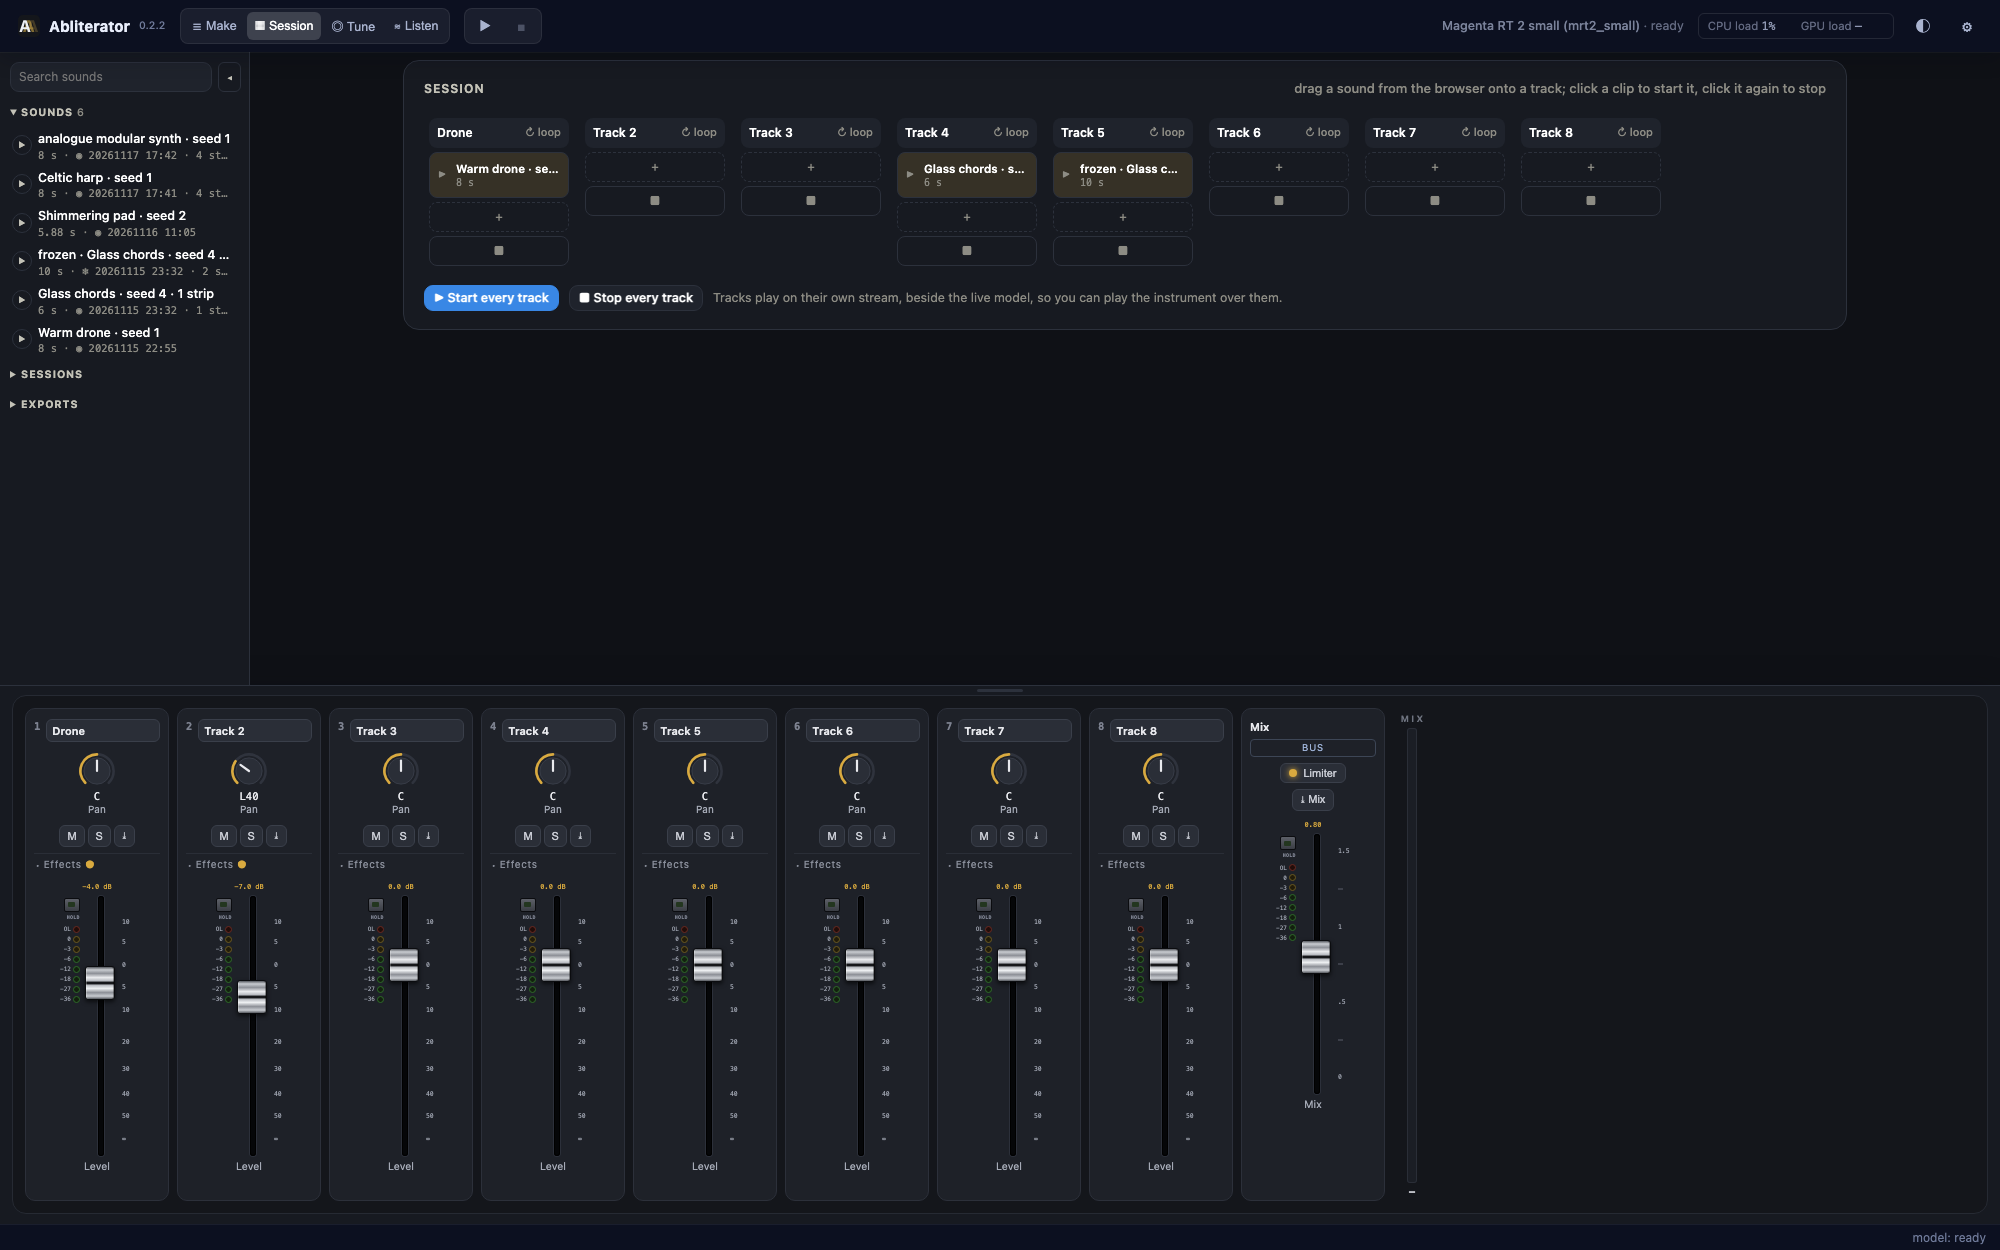
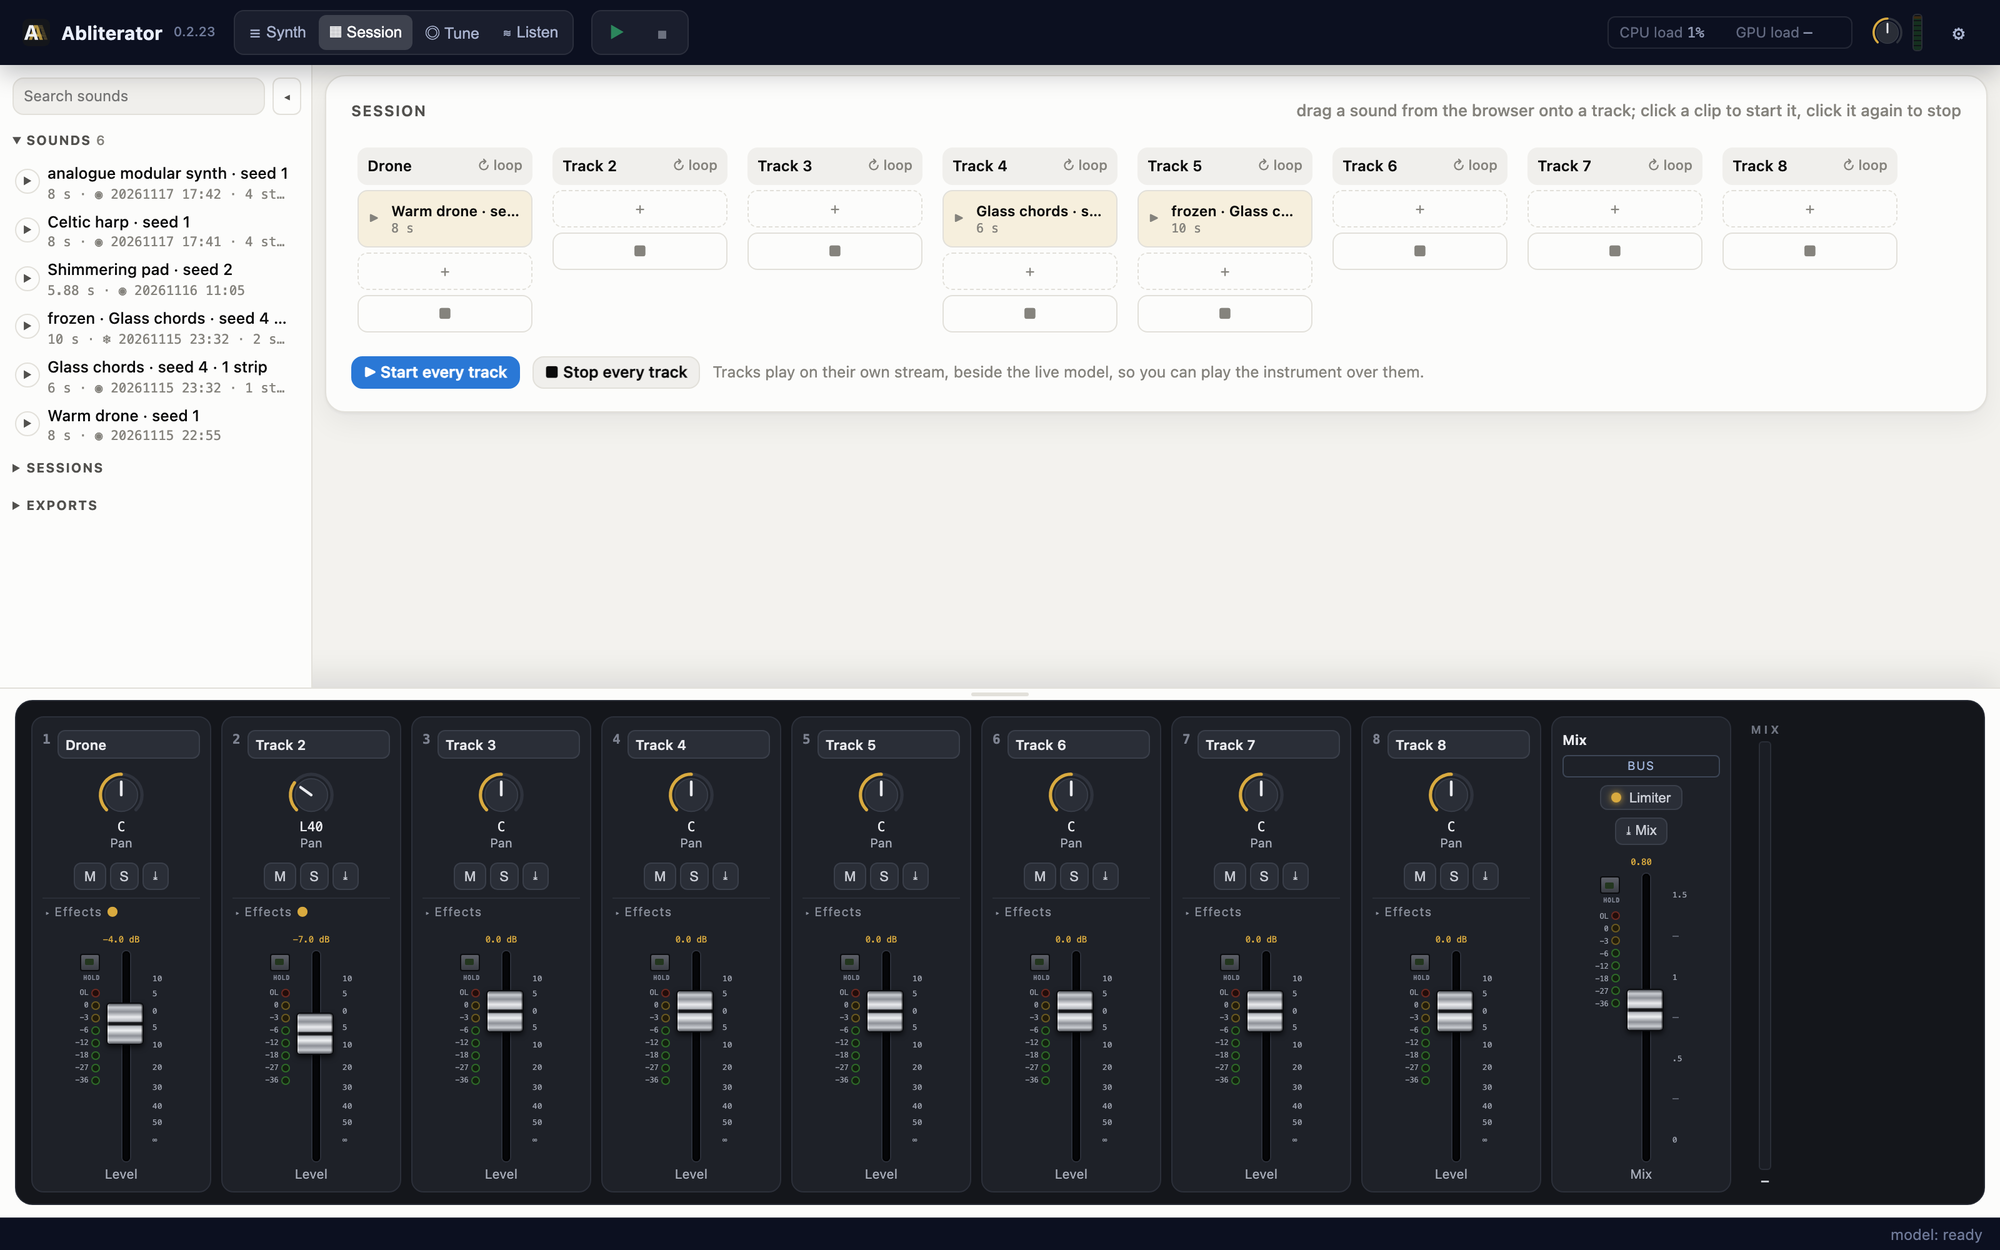
The Synth, Session and Tune screenshots re-taken with the new top bar

diff --git a/docs/index.html b/docs/index.html
@@ -70,7 +70,7 @@
       <a class="btn" href="https://vector-lab-tools.github.io/vector-abliteration-units/">The VAU standard</a>
     </div>
     <figure class="hero-shot">
-      <a class="screen shot" href="img/make.webp" data-cap="The Synth view while it plays: the Engine (Magenta RT 2 small, the Warm drone preset, Strength 3.8, seed 1, temperature 1.3, top-k 40, Mode Tape and Speed 1×, Width 82%) with its scope, channel meters and stereo field; the Signal path through the model's twelve layers, the codec, the model's sound and four effects; the Output section with the compressor at work and the OUT meter; under Model layers, Steer at brightness 0.1 and pulse 0.03 with LFO 1 moving the brightness dose, then Neuron in block 3, Quantise and Running Average at layer 6, each with its live display, and a Scope reading layer 6; the effects Tape, EQ 8, Pan (auto-panning) and Plate; and the modulation sources along the foot. CPU and GPU load are at the top right">
+      <a class="screen shot" href="img/make.webp" data-cap="The Synth view while it plays: the Engine (Magenta RT 2 small, the Warm drone preset, Strength 3.0, seed 1, temperature 1.3, top-k 40, Mode Tape and Speed 1×, Width 82%) with its scope, channel meters and stereo field; the Signal path through the model's twelve layers, the codec, the model's sound and four effects; the Output section with the compressor at work and the OUT meter; under Model layers, Steer at brightness 0.1 and pulse 0.03 with LFO 1 moving the brightness dose, then Neuron in block 3, Quantise and Running Average at layer 6, each with its live display, and a Scope reading layer 6; the effects Tape, EQ 8, Pan (auto-panning) and Plate; and the modulation sources along the foot. CPU and GPU load, the Volume dial and the output level are at the top right">
         <video src="img/make-live.mp4" poster="img/make-live-poster.jpg" width="1396" height="1268" autoplay muted loop playsinline preload="auto" aria-label="Abliterator playing, recorded in real time: the Warm drone preset with Neuron, Quantise and Running Average on the Model layers row, a Scope at layer 6, and Tape, EQ 8, Pan and Plate on the effect chain, while the Steer dot is dragged round a loop on the XY pad and the scope, meters, unit displays and stereo field move with the sound. Select it to open the still screenshot of the whole Synth view."></video>
         <span class="zoom">Zoom</span>
       </a>

diff --git a/README.md b/README.md
@@ -27,7 +27,7 @@ Abliterator plays a music model on your own machine and changes how it runs whil
 
 <p align="center"><img src="docs/img/make-live.gif" alt="Abliterator playing, recorded in real time: the Warm drone preset with Neuron, Quantise and Average units, a Scope at layer 6, and Tape, EQ 8, Pan and Plate on the effect chain, while the Steer dot is dragged round a loop on the XY pad and the scope, meters, unit displays and stereo field move with the sound" width="92%"></p>
 
-<p align="center"><img src="docs/img/make.png" alt="The Synth view while it plays: the sound library on the left; the Engine with the preset, its prompt, the Prompt box with Strength beside it, Seed, Temperature and Top-k, Save, and on its right the scope, Mode and Speed, Width and Spread, the channel meters and the stereo field; the Signal path through the model's twelve layers, the codec and the effects; the Output section with De-click, Dynamics and the OUT meter; under Model layers, the Steer card, then Neuron, Quantise and Running Average with their live displays and a Scope; the effects Tape, EQ 8, Pan and Plate; the modulation sources and the LFO editor; CPU and GPU load in the top bar" width="92%"></p>
+<p align="center"><img src="docs/img/make.png" alt="The Synth view while it plays: the sound library on the left; the Engine with the preset, its prompt, the Prompt box with Strength beside it, Seed, Temperature and Top-k, Save, and on its right the scope, Mode and Speed, Width and Spread, the channel meters and the stereo field; the Signal path through the model's twelve layers, the codec and the effects; the Output section with De-click, Dynamics and the OUT meter; under Model layers, the Steer card, then Neuron, Quantise and Running Average with their live displays and a Scope; the effects Tape, EQ 8, Pan and Plate; the modulation sources and the LFO editor; CPU and GPU load, the Volume dial and the output level meter in the top bar" width="92%"></p>
 
 ## What it does
 
